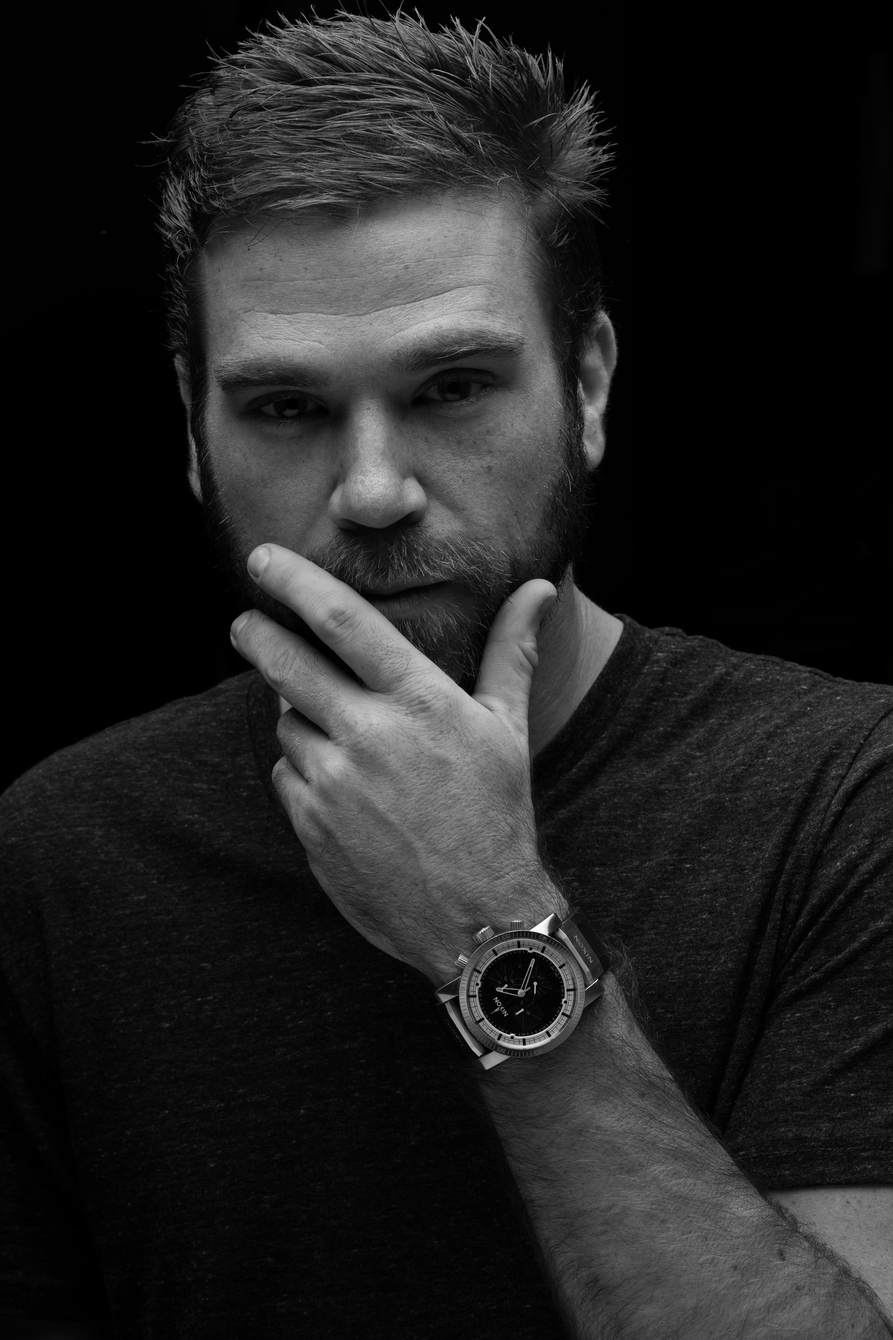
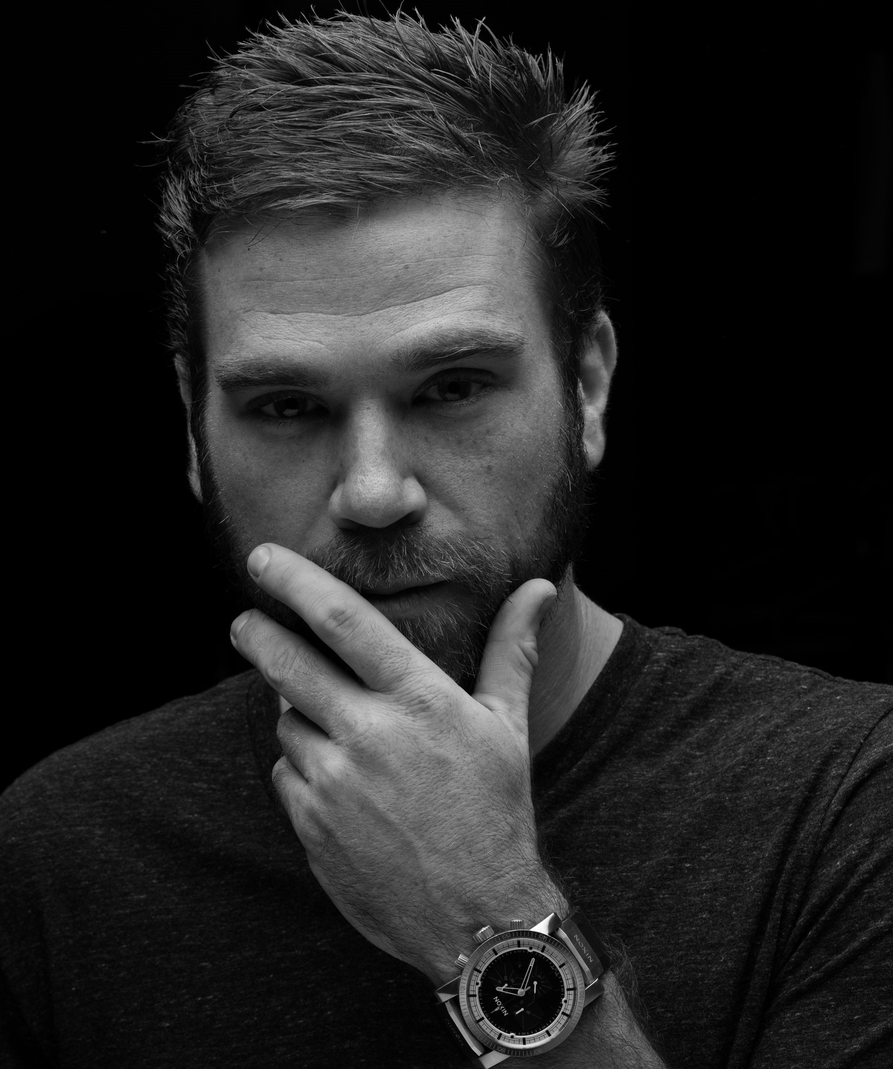
photos

diff --git a/Portfolio/index.html b/Portfolio/index.html
@@ -69,7 +69,10 @@
                     <!-- Wrapper with skills in the progress bar and information about yourself in a more detailed view -->
                     <section class="about-me">
                         <h2>About Me</h2>
-                        <img class="main-photo" src="images/Photo.png" alt="MyPhoto">
+                        <img class="main-photo" src="images/photo.jpeg" srcset="images/photo-320.jpeg 1x, 
+                                                     images/photo-640.jpeg 2x,
+                                                     images/photo-1280.jpeg 3x,
+                                                     images/photo-1920.jpeg 4x" alt="MyPhoto">
                         <p>Lorem ipsum dolor sit amet, consectetur adipisicing elit. Blanditiis architecto quod in, quaerat
                             est voluptatum mollitia fugiat laborum nesciunt tempore, expedita consectetur optio quos, cumque,
                             itaque. Molestiae sint, aut consectetur.Lorem ipsum dolor sit amet, consectetur adipisicing elit.
@@ -93,6 +96,16 @@
                         <p>Lorem ipsum dolor sit amet, consectetur adipisicing elit. Blanditiis architecto quod in, quaerat
                             est voluptatum mollitia fugiat laborum nesciunt tempore, expedita consectetur optio quos, cumque,
                             itaque. Molestiae sint, aut consectetur.</p>
+                        <p>Lorem ipsum dolor sit amet, consectetur adipisicing elit. Blanditiis architecto quod in, quaerat
+                            est voluptatum mollitia fugiat laborum nesciunt tempore, expedita consectetur optio quos, cumque,
+                            itaque. Molestiae sint, aut consectetur.Lorem ipsum dolor sit amet, consectetur adipisicing elit.
+                            Blanditiis architecto quod in, quaerat est voluptatum mollitia fugiat laborum nesciunt tempore,
+                            expedita consectetur optio quos, cumque, itaque. Molestiae sint, aut consectetur.Lorem ipsum
+                            dolor sit amet, consectetur adipisicing elit. Blanditiis architecto quod in, quaerat est voluptatum
+                            mollitia fugiat laborum nesciunt tempore, expedita consectetur optio quos, cumque, itaque. Molestiae
+                            sint, aut consectetur.Lorem ipsum dolor sit amet, consectetur adipisicing elit. Blanditiis architecto
+                            quod in, quaerat est voluptatum mollitia fugiat laborum nesciunt tempore, expedita consectetur
+                            optio quos, cumque, itaque. Molestiae sint, aut consectetur.</p>
                     </section>
                     <section class="skills">
                         <h2>My Skills</h2>
@@ -128,88 +141,88 @@
             <div class="elementProject">
                 <section class="project-wrapper">
                     <div class="container">
-                            <h2>My Projects</h2>
+                        <h2>My Projects</h2>
                         <div class="row">
                             <div class="col-md-4 col-sm-6 col-lt-12 projects">
-                                <a href="#">
+                                <a rel="colorbox" href="images/sites/1.jpg">
                                     <img src="images/sites/1.jpg" alt="Site-name">
                                 </a>
                                 <h3>De Cube</h3>
                                 <p class="brief">Brief description...</p>
                             </div>
                             <div class="col-md-4 col-sm-6 col-lt-12 projects">
-                                <a href="#">
+                                <a rel="colorbox" href="images/sites/2.jpg">
                                     <img src="images/sites/2.jpg" alt="Site-name">
                                 </a>
                                 <h3>HandyMan</h3>
                                 <p class="brief">Brief description...</p>
                             </div>
                             <div class="col-md-4 col-sm-6 col-lt-12 projects">
-                                <a href="#">
+                                <a rel="colorbox" href="images/sites/3.jpg">
                                     <img src="images/sites/3.jpg" alt="Site-name">
                                 </a>
                                 <h3>Portfolio</h3>
                                 <p class="brief">Brief description...</p>
                             </div>
                             <div class="col-md-4 col-sm-6 col-lt-12 projects">
-                                <a href="#">
-                                    <img src="images/sites/1.jpg" alt="Site-name">
+                                <a rel="colorbox" href="images/sites/4.jpg">
+                                    <img src="images/sites/4.jpg" alt="Site-name">
                                 </a>
                                 <h3>De Cube</h3>
                                 <p class="brief">Brief description...</p>
                             </div>
                             <div class="col-md-4 col-sm-6 col-lt-12 projects">
-                                <a href="#">
-                                    <img src="images/sites/2.jpg" alt="Site-name">
+                                <a rel="colorbox" href="images/sites/5.jpg">
+                                    <img src="images/sites/5.jpg" alt="Site-name">
                                 </a>
                                 <h3>HandyMan</h3>
                                 <p class="brief">Brief description...</p>
                             </div>
                             <div class="col-md-4 col-sm-6 col-lt-12 projects">
-                                <a href="#">
-                                    <img src="images/sites/3.jpg" alt="Site-name">
+                                <a rel="colorbox" href="images/sites/6.jpg">
+                                    <img src="images/sites/6.jpg" alt="Site-name">
                                 </a>
                                 <h3>Portfolio</h3>
                                 <p class="brief">Brief description...</p>
                             </div>
                             <div class="col-md-4 col-sm-6 col-lt-12 projects">
-                                <a href="#">
-                                    <img src="images/sites/3.jpg" alt="Site-name">
+                                <a rel="colorbox" href="images/sites/7.jpg">
+                                    <img src="images/sites/7.jpg" alt="Site-name">
                                 </a>
                                 <h3>Portfolio</h3>
                                 <p class="brief">Brief description...</p>
                             </div>
                             <div class="col-md-4 col-sm-6 col-lt-12 projects">
-                                <a href="#">
-                                    <img src="images/sites/1.jpg" alt="Site-name">
+                                <a rel="colorbox" href="images/sites/8.jpg">
+                                    <img src="images/sites/8.jpg" alt="Site-name">
                                 </a>
                                 <h3>De Cube</h3>
                                 <p class="brief">Brief description...</p>
                             </div>
                             <div class="col-md-4 col-sm-6 col-lt-12 projects">
-                                <a href="#">
-                                    <img src="images/sites/2.jpg" alt="Site-name">
+                                <a rel="colorbox" href="images/sites/9.jpg">
+                                    <img src="images/sites/9.jpg" alt="Site-name">
                                 </a>
                                 <h3>HandyMan</h3>
                                 <p class="brief">Brief description...</p>
                             </div>
                             <div class="col-md-4 col-sm-6 col-lt-12 projects">
-                                <a href="#">
-                                    <img src="images/sites/3.jpg" alt="Site-name">
+                                <a rel="colorbox" href="images/sites/10.jpg">
+                                    <img src="images/sites/10.jpg" alt="Site-name">
                                 </a>
                                 <h3>Portfolio</h3>
                                 <p class="brief">Brief description...</p>
                             </div>
                             <div class="col-md-4 col-sm-6 col-lt-12 projects">
-                                <a href="#">
-                                    <img src="images/sites/1.jpg" alt="Site-name">
+                                <a rel="colorbox" href="images/sites/11.jpg">
+                                    <img src="images/sites/11.jpg" alt="Site-name">
                                 </a>
                                 <h3>De Cube</h3>
                                 <p class="brief">Brief description...</p>
                             </div>
                             <div class="col-md-4 col-sm-6 col-lt-12 projects">
-                                <a href="#">
-                                    <img src="images/sites/2.jpg" alt="Site-name">
+                                <a rel="colorbox" href="images/sites/12.jpg">
+                                    <img src="images/sites/12.jpg" alt="Site-name">
                                 </a>
                                 <h3>HandyMan</h3>
                                 <p class="brief">Brief description...</p>
@@ -243,12 +256,16 @@
                     <form class="registration-form-wrapper" action="#0">
                         <div class="registration-form">
                             <input required id="name" class="registration-form-name" type="text" placeholder=" " name="name" title="Enter your name">
-                            <label for="name"><i class="fa fa-user-o" aria-hidden="true"> Name</i></label>
+                            <label for="name">
+                                <i class="fa fa-user-o" aria-hidden="true"> Name</i>
+                            </label>
                         </div>
                         <div class="registration-form">
                             <input required id="phone" class="registration-form-phone" pattern="(\+?\d[- .]*){7,13}" type="tel" placeholder=" " name="phone"
                                 title="Enter your phone number in the format +38098....">
-                            <label for="phone"><i class="fa fa-phone" aria-hidden="true"> Phone</i></label>
+                            <label for="phone">
+                                <i class="fa fa-phone" aria-hidden="true"> Phone</i>
+                            </label>
                             <div class="requirements">
                                 <i class="fa fa-times" aria-hidden="true"></i>
                                 Must be a valid telephone number!
@@ -256,7 +273,9 @@
                         </div>
                         <div class="registration-form">
                             <input required id="email" class="registration-form-email" type="email" placeholder=" " name="email" title="Enter your email adress">
-                            <label for="email"><i class="fa fa-envelope-o" aria-hidden="true"> Email</i></label>
+                            <label for="email">
+                                <i class="fa fa-envelope-o" aria-hidden="true"> Email</i>
+                            </label>
                             <div class="requirements">
                                 <i class="fa fa-times" aria-hidden="true"></i>
                                 Must be a valid E-mail adress!
@@ -298,6 +317,22 @@
     <script src="https://code.jquery.com/ui/1.12.1/jquery-ui.js"></script>
     <script src="libs/progress/progress.js"></script>
     <script src="js/common.js"></script>
+
+    <link rel="stylesheet" href="libs/colorbox/colorbox.css">
+    <script src="libs/lazyload/jquery.lazyload.mini.js"></script>
+    <script src="libs/colorbox/jquery.colorbox-min.js"></script>
+    
+
+    <script>
+        $(document).ready(function () {
+            $("img").lazyload({ effect: "fadeIn" });
+            $("a[rel='colorbox']").colorbox({
+                maxWidth:"100%",
+                maxHeight:"100%",
+                opacity:"0.9",
+                current: "Сайт {current} из {total}" });
+        });
+    </script>
 </body>
 
 </html>

diff --git a/Portfolio/libs/colorbox/jquery.colorbox-min.js b/Portfolio/libs/colorbox/jquery.colorbox-min.js
@@ -1,0 +1,7 @@
+/*!
+	Colorbox v1.4.31 - 2013-09-25
+	jQuery lightbox and modal window plugin
+	(c) 2013 Jack Moore - http://www.jacklmoore.com/colorbox
+	license: http://www.opensource.org/licenses/mit-license.php
+*/
+(function(e,t,i){function o(i,o,n){var r=t.createElement(i);return o&&(r.id=Z+o),n&&(r.style.cssText=n),e(r)}function n(){return i.innerHeight?i.innerHeight:e(i).height()}function r(e){var t=k.length,i=(z+e)%t;return 0>i?t+i:i}function h(e,t){return Math.round((/%/.test(e)?("x"===t?E.width():n())/100:1)*parseInt(e,10))}function s(e,t){return e.photo||e.photoRegex.test(t)}function l(e,t){return e.retinaUrl&&i.devicePixelRatio>1?t.replace(e.photoRegex,e.retinaSuffix):t}function a(e){"contains"in g[0]&&!g[0].contains(e.target)&&(e.stopPropagation(),g.focus())}function d(){var t,i=e.data(N,Y);null==i?(B=e.extend({},X),console&&console.log&&console.log("Error: cboxElement missing settings object")):B=e.extend({},i);for(t in B)e.isFunction(B[t])&&"on"!==t.slice(0,2)&&(B[t]=B[t].call(N));B.rel=B.rel||N.rel||e(N).data("rel")||"nofollow",B.href=B.href||e(N).attr("href"),B.title=B.title||N.title,"string"==typeof B.href&&(B.href=e.trim(B.href))}function c(i,o){e(t).trigger(i),st.trigger(i),e.isFunction(o)&&o.call(N)}function u(i){q||(N=i,d(),k=e(N),z=0,"nofollow"!==B.rel&&(k=e("."+et).filter(function(){var t,i=e.data(this,Y);return i&&(t=e(this).data("rel")||i.rel||this.rel),t===B.rel}),z=k.index(N),-1===z&&(k=k.add(N),z=k.length-1)),w.css({opacity:parseFloat(B.opacity),cursor:B.overlayClose?"pointer":"auto",visibility:"visible"}).show(),J&&g.add(w).removeClass(J),B.className&&g.add(w).addClass(B.className),J=B.className,B.closeButton?K.html(B.close).appendTo(y):K.appendTo("<div/>"),U||(U=$=!0,g.css({visibility:"hidden",display:"block"}),H=o(lt,"LoadedContent","width:0; height:0; overflow:hidden"),y.css({width:"",height:""}).append(H),O=x.height()+C.height()+y.outerHeight(!0)-y.height(),_=b.width()+T.width()+y.outerWidth(!0)-y.width(),D=H.outerHeight(!0),A=H.outerWidth(!0),B.w=h(B.initialWidth,"x"),B.h=h(B.initialHeight,"y"),H.css({width:"",height:B.h}),Q.position(),c(tt,B.onOpen),P.add(L).hide(),g.focus(),B.trapFocus&&t.addEventListener&&(t.addEventListener("focus",a,!0),st.one(rt,function(){t.removeEventListener("focus",a,!0)})),B.returnFocus&&st.one(rt,function(){e(N).focus()})),m())}function f(){!g&&t.body&&(V=!1,E=e(i),g=o(lt).attr({id:Y,"class":e.support.opacity===!1?Z+"IE":"",role:"dialog",tabindex:"-1"}).hide(),w=o(lt,"Overlay").hide(),F=e([o(lt,"LoadingOverlay")[0],o(lt,"LoadingGraphic")[0]]),v=o(lt,"Wrapper"),y=o(lt,"Content").append(L=o(lt,"Title"),S=o(lt,"Current"),I=e('<button type="button"/>').attr({id:Z+"Previous"}),R=e('<button type="button"/>').attr({id:Z+"Next"}),M=o("button","Slideshow"),F),K=e('<button type="button"/>').attr({id:Z+"Close"}),v.append(o(lt).append(o(lt,"TopLeft"),x=o(lt,"TopCenter"),o(lt,"TopRight")),o(lt,!1,"clear:left").append(b=o(lt,"MiddleLeft"),y,T=o(lt,"MiddleRight")),o(lt,!1,"clear:left").append(o(lt,"BottomLeft"),C=o(lt,"BottomCenter"),o(lt,"BottomRight"))).find("div div").css({"float":"left"}),W=o(lt,!1,"position:absolute; width:9999px; visibility:hidden; display:none"),P=R.add(I).add(S).add(M),e(t.body).append(w,g.append(v,W)))}function p(){function i(e){e.which>1||e.shiftKey||e.altKey||e.metaKey||e.ctrlKey||(e.preventDefault(),u(this))}return g?(V||(V=!0,R.click(function(){Q.next()}),I.click(function(){Q.prev()}),K.click(function(){Q.close()}),w.click(function(){B.overlayClose&&Q.close()}),e(t).bind("keydown."+Z,function(e){var t=e.keyCode;U&&B.escKey&&27===t&&(e.preventDefault(),Q.close()),U&&B.arrowKey&&k[1]&&!e.altKey&&(37===t?(e.preventDefault(),I.click()):39===t&&(e.preventDefault(),R.click()))}),e.isFunction(e.fn.on)?e(t).on("click."+Z,"."+et,i):e("."+et).live("click."+Z,i)),!0):!1}function m(){var n,r,a,u=Q.prep,f=++at;$=!0,j=!1,N=k[z],d(),c(ht),c(it,B.onLoad),B.h=B.height?h(B.height,"y")-D-O:B.innerHeight&&h(B.innerHeight,"y"),B.w=B.width?h(B.width,"x")-A-_:B.innerWidth&&h(B.innerWidth,"x"),B.mw=B.w,B.mh=B.h,B.maxWidth&&(B.mw=h(B.maxWidth,"x")-A-_,B.mw=B.w&&B.w<B.mw?B.w:B.mw),B.maxHeight&&(B.mh=h(B.maxHeight,"y")-D-O,B.mh=B.h&&B.h<B.mh?B.h:B.mh),n=B.href,G=setTimeout(function(){F.show()},100),B.inline?(a=o(lt).hide().insertBefore(e(n)[0]),st.one(ht,function(){a.replaceWith(H.children())}),u(e(n))):B.iframe?u(" "):B.html?u(B.html):s(B,n)?(n=l(B,n),j=t.createElement("img"),e(j).addClass(Z+"Photo").bind("error",function(){B.title=!1,u(o(lt,"Error").html(B.imgError))}).one("load",function(){var t;f===at&&(e.each(["alt","longdesc","aria-describedby"],function(t,i){var o=e(N).attr(i)||e(N).attr("data-"+i);o&&j.setAttribute(i,o)}),B.retinaImage&&i.devicePixelRatio>1&&(j.height=j.height/i.devicePixelRatio,j.width=j.width/i.devicePixelRatio),B.scalePhotos&&(r=function(){j.height-=j.height*t,j.width-=j.width*t},B.mw&&j.width>B.mw&&(t=(j.width-B.mw)/j.width,r()),B.mh&&j.height>B.mh&&(t=(j.height-B.mh)/j.height,r())),B.h&&(j.style.marginTop=Math.max(B.mh-j.height,0)/2+"px"),k[1]&&(B.loop||k[z+1])&&(j.style.cursor="pointer",j.onclick=function(){Q.next()}),j.style.width=j.width+"px",j.style.height=j.height+"px",setTimeout(function(){u(j)},1))}),setTimeout(function(){j.src=n},1)):n&&W.load(n,B.data,function(t,i){f===at&&u("error"===i?o(lt,"Error").html(B.xhrError):e(this).contents())})}var w,g,v,y,x,b,T,C,k,E,H,W,F,L,S,M,R,I,K,P,B,O,_,D,A,N,z,j,U,$,q,G,Q,J,V,X={html:!1,photo:!1,iframe:!1,inline:!1,transition:"elastic",speed:300,fadeOut:300,width:!1,initialWidth:"600",innerWidth:!1,maxWidth:!1,height:!1,initialHeight:"450",innerHeight:!1,maxHeight:!1,scalePhotos:!0,scrolling:!0,href:!1,title:!1,rel:!1,opacity:.9,preloading:!0,className:!1,overlayClose:!0,escKey:!0,arrowKey:!0,top:!1,bottom:!1,left:!1,right:!1,fixed:!1,data:void 0,closeButton:!0,fastIframe:!0,open:!1,reposition:!0,loop:!0,slideshow:!1,slideshowAuto:!0,slideshowSpeed:2500,slideshowStart:"start slideshow",slideshowStop:"stop slideshow",photoRegex:/\.(gif|png|jp(e|g|eg)|bmp|ico|webp)((#|\?).*)?$/i,retinaImage:!1,retinaUrl:!1,retinaSuffix:"@2x.$1",current:"FOTO {current} OF {total}",previous:"previous",next:"next",close:"close",xhrError:"This content failed to load.",imgError:"This image failed to load.",returnFocus:!0,trapFocus:!0,onOpen:!1,onLoad:!1,onComplete:!1,onCleanup:!1,onClosed:!1},Y="colorbox",Z="cbox",et=Z+"Element",tt=Z+"_open",it=Z+"_load",ot=Z+"_complete",nt=Z+"_cleanup",rt=Z+"_closed",ht=Z+"_purge",st=e("<a/>"),lt="div",at=0,dt={},ct=function(){function e(){clearTimeout(h)}function t(){(B.loop||k[z+1])&&(e(),h=setTimeout(Q.next,B.slideshowSpeed))}function i(){M.html(B.slideshowStop).unbind(l).one(l,o),st.bind(ot,t).bind(it,e),g.removeClass(s+"off").addClass(s+"on")}function o(){e(),st.unbind(ot,t).unbind(it,e),M.html(B.slideshowStart).unbind(l).one(l,function(){Q.next(),i()}),g.removeClass(s+"on").addClass(s+"off")}function n(){r=!1,M.hide(),e(),st.unbind(ot,t).unbind(it,e),g.removeClass(s+"off "+s+"on")}var r,h,s=Z+"Slideshow_",l="click."+Z;return function(){r?B.slideshow||(st.unbind(nt,n),n()):B.slideshow&&k[1]&&(r=!0,st.one(nt,n),B.slideshowAuto?i():o(),M.show())}}();e.colorbox||(e(f),Q=e.fn[Y]=e[Y]=function(t,i){var o=this;if(t=t||{},f(),p()){if(e.isFunction(o))o=e("<a/>"),t.open=!0;else if(!o[0])return o;i&&(t.onComplete=i),o.each(function(){e.data(this,Y,e.extend({},e.data(this,Y)||X,t))}).addClass(et),(e.isFunction(t.open)&&t.open.call(o)||t.open)&&u(o[0])}return o},Q.position=function(t,i){function o(){x[0].style.width=C[0].style.width=y[0].style.width=parseInt(g[0].style.width,10)-_+"px",y[0].style.height=b[0].style.height=T[0].style.height=parseInt(g[0].style.height,10)-O+"px"}var r,s,l,a=0,d=0,c=g.offset();if(E.unbind("resize."+Z),g.css({top:-9e4,left:-9e4}),s=E.scrollTop(),l=E.scrollLeft(),B.fixed?(c.top-=s,c.left-=l,g.css({position:"fixed"})):(a=s,d=l,g.css({position:"absolute"})),d+=B.right!==!1?Math.max(E.width()-B.w-A-_-h(B.right,"x"),0):B.left!==!1?h(B.left,"x"):Math.round(Math.max(E.width()-B.w-A-_,0)/2),a+=B.bottom!==!1?Math.max(n()-B.h-D-O-h(B.bottom,"y"),0):B.top!==!1?h(B.top,"y"):Math.round(Math.max(n()-B.h-D-O,0)/2),g.css({top:c.top,left:c.left,visibility:"visible"}),v[0].style.width=v[0].style.height="9999px",r={width:B.w+A+_,height:B.h+D+O,top:a,left:d},t){var u=0;e.each(r,function(e){return r[e]!==dt[e]?(u=t,void 0):void 0}),t=u}dt=r,t||g.css(r),g.dequeue().animate(r,{duration:t||0,complete:function(){o(),$=!1,v[0].style.width=B.w+A+_+"px",v[0].style.height=B.h+D+O+"px",B.reposition&&setTimeout(function(){E.bind("resize."+Z,Q.position)},1),i&&i()},step:o})},Q.resize=function(e){var t;U&&(e=e||{},e.width&&(B.w=h(e.width,"x")-A-_),e.innerWidth&&(B.w=h(e.innerWidth,"x")),H.css({width:B.w}),e.height&&(B.h=h(e.height,"y")-D-O),e.innerHeight&&(B.h=h(e.innerHeight,"y")),e.innerHeight||e.height||(t=H.scrollTop(),H.css({height:"auto"}),B.h=H.height()),H.css({height:B.h}),t&&H.scrollTop(t),Q.position("none"===B.transition?0:B.speed))},Q.prep=function(i){function n(){return B.w=B.w||H.width(),B.w=B.mw&&B.mw<B.w?B.mw:B.w,B.w}function h(){return B.h=B.h||H.height(),B.h=B.mh&&B.mh<B.h?B.mh:B.h,B.h}if(U){var a,d="none"===B.transition?0:B.speed;H.empty().remove(),H=o(lt,"LoadedContent").append(i),H.hide().appendTo(W.show()).css({width:n(),overflow:B.scrolling?"auto":"hidden"}).css({height:h()}).prependTo(y),W.hide(),e(j).css({"float":"none"}),a=function(){function i(){e.support.opacity===!1&&g[0].style.removeAttribute("filter")}var n,h,a=k.length,u="frameBorder",f="allowTransparency";U&&(h=function(){clearTimeout(G),F.hide(),c(ot,B.onComplete)},L.html(B.title).add(H).show(),a>1?("string"==typeof B.current&&S.html(B.current.replace("{current}",z+1).replace("{total}",a)).show(),R[B.loop||a-1>z?"show":"hide"]().html(B.next),I[B.loop||z?"show":"hide"]().html(B.previous),ct(),B.preloading&&e.each([r(-1),r(1)],function(){var i,o,n=k[this],r=e.data(n,Y);r&&r.href?(i=r.href,e.isFunction(i)&&(i=i.call(n))):i=e(n).attr("href"),i&&s(r,i)&&(i=l(r,i),o=t.createElement("img"),o.src=i)})):P.hide(),B.iframe?(n=o("iframe")[0],u in n&&(n[u]=0),f in n&&(n[f]="true"),B.scrolling||(n.scrolling="no"),e(n).attr({src:B.href,name:(new Date).getTime(),"class":Z+"Iframe",allowFullScreen:!0,webkitAllowFullScreen:!0,mozallowfullscreen:!0}).one("load",h).appendTo(H),st.one(ht,function(){n.src="//about:blank"}),B.fastIframe&&e(n).trigger("load")):h(),"fade"===B.transition?g.fadeTo(d,1,i):i())},"fade"===B.transition?g.fadeTo(d,0,function(){Q.position(0,a)}):Q.position(d,a)}},Q.next=function(){!$&&k[1]&&(B.loop||k[z+1])&&(z=r(1),u(k[z]))},Q.prev=function(){!$&&k[1]&&(B.loop||z)&&(z=r(-1),u(k[z]))},Q.close=function(){U&&!q&&(q=!0,U=!1,c(nt,B.onCleanup),E.unbind("."+Z),w.fadeTo(B.fadeOut||0,0),g.stop().fadeTo(B.fadeOut||0,0,function(){g.add(w).css({opacity:1,cursor:"auto"}).hide(),c(ht),H.empty().remove(),setTimeout(function(){q=!1,c(rt,B.onClosed)},1)}))},Q.remove=function(){g&&(g.stop(),e.colorbox.close(),g.stop().remove(),w.remove(),q=!1,g=null,e("."+et).removeData(Y).removeClass(et),e(t).unbind("click."+Z))},Q.element=function(){return e(N)},Q.settings=X)})(jQuery,document,window);

diff --git a/Portfolio/libs/colorbox/index.html b/Portfolio/libs/colorbox/index.html
@@ -1,0 +1,95 @@
+<!DOCTYPE html>
+<html>
+	<head>
+		<meta charset='utf-8'/>
+		<title>Colorbox Examples</title>
+		<style>
+			body{font:12px/1.2 Verdana, sans-serif; padding:0 10px;}
+			a:link, a:visited{text-decoration:none; color:#416CE5; border-bottom:1px solid #416CE5;}
+			h2{font-size:13px; margin:15px 0 0 0;}
+		</style>
+		<link rel="stylesheet" href="colorbox.css" />
+		<script src="https://ajax.googleapis.com/ajax/libs/jquery/1.10.2/jquery.min.js"></script>
+		<script src="../jquery.colorbox.js"></script>
+		<script>
+			$(document).ready(function(){
+				//Examples of how to assign the Colorbox event to elements
+				$(".group1").colorbox({rel:'group1'});
+				$(".group2").colorbox({rel:'group2', transition:"fade"});
+				$(".group3").colorbox({rel:'group3', transition:"none", width:"75%", height:"75%"});
+				$(".group4").colorbox({rel:'group4', slideshow:true});
+				$(".ajax").colorbox();
+				$(".youtube").colorbox({iframe:true, innerWidth:640, innerHeight:390});
+				$(".vimeo").colorbox({iframe:true, innerWidth:500, innerHeight:409});
+				$(".iframe").colorbox({iframe:true, width:"80%", height:"80%"});
+				$(".inline").colorbox({inline:true, width:"50%"});
+				$(".callbacks").colorbox({
+					onOpen:function(){ alert('onOpen: colorbox is about to open'); },
+					onLoad:function(){ alert('onLoad: colorbox has started to load the targeted content'); },
+					onComplete:function(){ alert('onComplete: colorbox has displayed the loaded content'); },
+					onCleanup:function(){ alert('onCleanup: colorbox has begun the close process'); },
+					onClosed:function(){ alert('onClosed: colorbox has completely closed'); }
+				});
+
+				$('.non-retina').colorbox({rel:'group5', transition:'none'})
+				$('.retina').colorbox({rel:'group5', transition:'none', retinaImage:true, retinaUrl:true});
+				
+				//Example of preserving a JavaScript event for inline calls.
+				$("#click").click(function(){ 
+					$('#click').css({"background-color":"#f00", "color":"#fff", "cursor":"inherit"}).text("Open this window again and this message will still be here.");
+					return false;
+				});
+			});
+		</script>
+	</head>
+	<body>
+		<h1>Colorbox Demonstration</h1>
+		<h2>Elastic Transition</h2>
+		<p><a class="group1" href="../content/ohoopee1.jpg" title="Me and my grandfather on the Ohoopee.">Grouped Photo 1</a></p>
+		<p><a class="group1" href="../content/ohoopee2.jpg" title="On the Ohoopee as a child">Grouped Photo 2</a></p>
+		<p><a class="group1" href="../content/ohoopee3.jpg" title="On the Ohoopee as an adult">Grouped Photo 3</a></p>
+		
+		<h2>Fade Transition</h2>
+		<p><a class="group2" href="../content/ohoopee1.jpg" title="Me and my grandfather on the Ohoopee">Grouped Photo 1</a></p>
+		<p><a class="group2" href="../content/ohoopee2.jpg" title="On the Ohoopee as a child">Grouped Photo 2</a></p>
+		<p><a class="group2" href="../content/ohoopee3.jpg" title="On the Ohoopee as an adult">Grouped Photo 3</a></p>
+		
+		<h2>No Transition + fixed width and height (75% of screen size)</h2>
+		<p><a class="group3" href="../content/ohoopee1.jpg" title="Me and my grandfather on the Ohoopee.">Grouped Photo 1</a></p>
+		<p><a class="group3" href="../content/ohoopee2.jpg" title="On the Ohoopee as a child">Grouped Photo 2</a></p>
+		<p><a class="group3" href="../content/ohoopee3.jpg" title="On the Ohoopee as an adult">Grouped Photo 3</a></p>
+		
+		<h2>Slideshow</h2>
+		<p><a class="group4"  href="../content/ohoopee1.jpg" title="Me and my grandfather on the Ohoopee.">Grouped Photo 1</a></p>
+		<p><a class="group4"  href="../content/ohoopee2.jpg" title="On the Ohoopee as a child">Grouped Photo 2</a></p>
+		<p><a class="group4"  href="../content/ohoopee3.jpg" title="On the Ohoopee as an adult">Grouped Photo 3</a></p>
+		
+		<h2>Other Content Types</h2>
+		<p><a class='ajax' href="../content/ajax.html" title="Homer Defined">Outside HTML (Ajax)</a></p>
+		<p><a class='youtube' href="http://www.youtube.com/embed/VOJyrQa_WR4?rel=0&amp;wmode=transparent">Flash / Video (Iframe/Direct Link To YouTube)</a></p>
+		<p><a class='vimeo' href="http://player.vimeo.com/video/2285902" title="R&ouml;yksopp: Remind Me">Flash / Video (Iframe/Direct Link To Vimeo)</a></p>
+		<p><a class='iframe' href="http://wikipedia.com">Outside Webpage (Iframe)</a></p>
+		<p><a class='inline' href="#inline_content">Inline HTML</a></p>
+		
+		<h2>Demonstration of using callbacks</h2>
+		<p><a class='callbacks' href="../content/marylou.jpg" title="Marylou on Cumberland Island">Example with alerts</a>. Callbacks and event-hooks allow users to extend functionality without having to rewrite parts of the plugin.</p>
+		
+
+		<h2>Retina Images</h2>
+		<p><a class="retina" href="../content/daisy.jpg" title="Retina">Retina</a></p>
+		<p><a class="non-retina" href="../content/daisy.jpg" title="Non-Retina">Non-Retina</a></p>
+
+		<!-- This contains the hidden content for inline calls -->
+		<div style='display:none'>
+			<div id='inline_content' style='padding:10px; background:#fff;'>
+			<p><strong>This content comes from a hidden element on this page.</strong></p>
+			<p>The inline option preserves bound JavaScript events and changes, and it puts the content back where it came from when it is closed.</p>
+			<p><a id="click" href="#" style='padding:5px; background:#ccc;'>Click me, it will be preserved!</a></p>
+			
+			<p><strong>If you try to open a new Colorbox while it is already open, it will update itself with the new content.</strong></p>
+			<p>Updating Content Example:<br />
+			<a class="ajax" href="../content/ajax.html">Click here to load new content</a></p>
+			</div>
+		</div>
+	</body>
+</html>

diff --git a/Portfolio/libs/lazyload/jquery.lazyload.mini.js b/Portfolio/libs/lazyload/jquery.lazyload.mini.js
@@ -1,0 +1,2 @@
+/*! Lazy Load 1.9.3 - MIT license - Copyright 2010-2013 Mika Tuupola */
[1 lines of base64/hex data omitted]

diff --git a/Portfolio/libs/colorbox/colorbox.css b/Portfolio/libs/colorbox/colorbox.css
@@ -1,0 +1,44 @@
+/*
+    Colorbox Core Style:
+    The following CSS is consistent between example themes and should not be altered.
+*/
+#colorbox, #cboxOverlay, #cboxWrapper{position:absolute; top:0; left:0; z-index:9999; overflow:hidden;}
+#cboxOverlay{position:fixed; width:100%; height:100%;}
+#cboxMiddleLeft, #cboxBottomLeft{clear:left;}
+#cboxContent{position:relative;}
+#cboxLoadedContent{overflow:auto; -webkit-overflow-scrolling: touch;}
+#cboxTitle{margin:0;}
+#cboxLoadingOverlay, #cboxLoadingGraphic{position:absolute; top:0; left:0; width:100%; height:100%;}
+#cboxPrevious, #cboxNext, #cboxClose, #cboxSlideshow{cursor:pointer;}
+.cboxPhoto{float:left; margin:auto; border:0; display:block; max-width:none; -ms-interpolation-mode:bicubic;}
+.cboxIframe{width:100%; height:100%; display:block; border:0;}
+#colorbox, #cboxContent, #cboxLoadedContent{box-sizing:content-box; -moz-box-sizing:content-box; -webkit-box-sizing:content-box;}
+
+/* 
+    User Style:
+    Change the following styles to modify the appearance of Colorbox.  They are
+    ordered & tabbed in a way that represents the nesting of the generated HTML.
+*/
+#cboxOverlay{background:#000;}
+#colorbox{outline:0;}
+    #cboxContent{margin-top:20px;background:#000;}
+        .cboxIframe{background:#fff;}
+        #cboxError{padding:50px; border:1px solid #ccc;}
+        #cboxLoadedContent{border:5px solid #000; background:#fff;}
+        #cboxTitle{position:absolute; top:-20px; left:0; color:#ccc;}
+        #cboxCurrent{position:absolute; top:-20px; right:0px; color:#ccc;}
+        #cboxLoadingGraphic{background:url(images/loading.gif) no-repeat center center;}
+
+        /* these elements are buttons, and may need to have additional styles reset to avoid unwanted base styles */
+        #cboxPrevious, #cboxNext, #cboxSlideshow, #cboxClose {border:0; padding:0; margin:0; overflow:visible; width:auto; background:none; }
+        
+        /* avoid outlines on :active (mouseclick), but preserve outlines on :focus (tabbed navigating) */
+        #cboxPrevious:active, #cboxNext:active, #cboxSlideshow:active, #cboxClose:active {outline:0;}
+        
+        #cboxSlideshow{position:absolute; top:-20px; right:90px; color:#fff;}
+        #cboxPrevious{position:absolute; top:50%; left:5px; margin-top:-32px; background:url(images/controls.png) no-repeat top left; width:28px; height:65px; text-indent:-9999px;}
+        #cboxPrevious:hover{background-position:bottom left;}
+        #cboxNext{position:absolute; top:50%; right:5px; margin-top:-32px; background:url(images/controls.png) no-repeat top right; width:28px; height:65px; text-indent:-9999px;}
+        #cboxNext:hover{background-position:bottom right;}
+        #cboxClose{position:absolute; top:5px; right:5px; display:block; background:url(images/controls.png) no-repeat top center; width:38px; height:19px; text-indent:-9999px;}
+        #cboxClose:hover{background-position:bottom center;}

diff --git a/Portfolio/css/styles.css b/Portfolio/css/styles.css
@@ -50,7 +50,7 @@
     .about-me img{
         display: block;
         margin: 0 auto;
-        width: 196px;
+        width: 100%;
         float: none; 
     }
     .about-me p{
@@ -273,6 +273,11 @@ a i:hover,
 
 .about-me{
     margin-top: 15px;
+}
+.about-me:after{
+    content: '';
+    clear: both;
+    display: table;
 }
 .about-me h2{
     font-family: 'Oswald', sans-serif;
